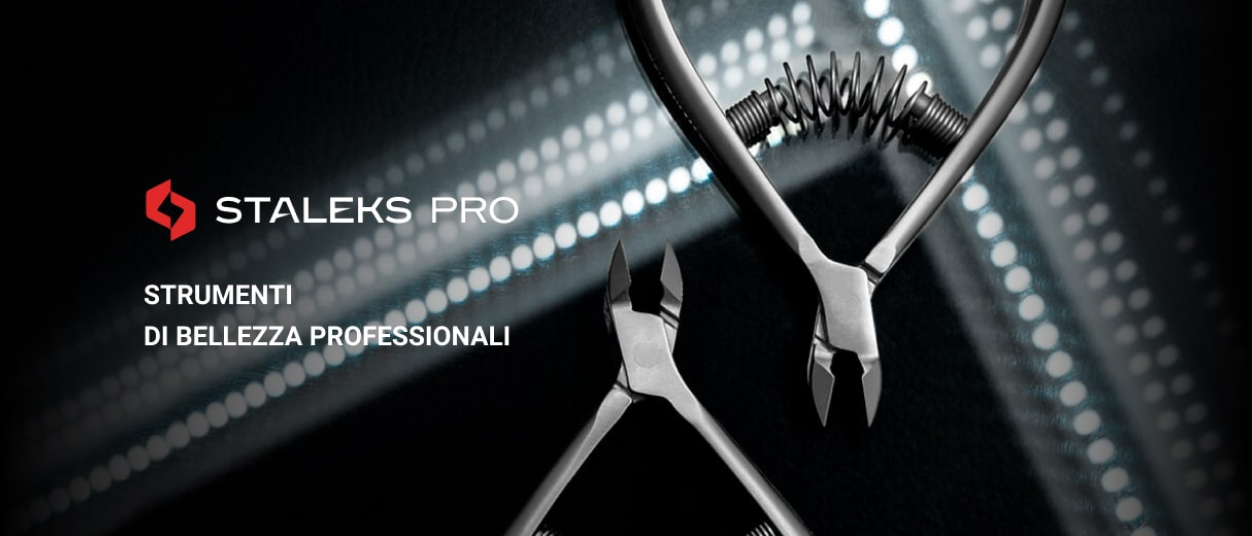
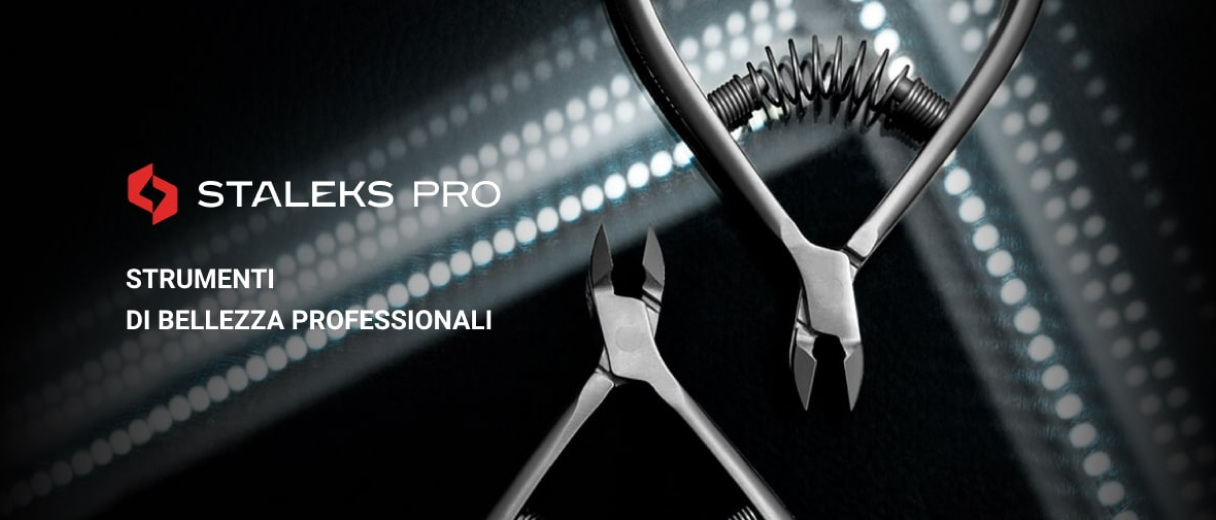
intro slider

diff --git a/index.html b/index.html
@@ -94,9 +94,15 @@
     <main class="container">
         <article class="article intro wow animate__animated animate__fadeInUp" data-wow-delay="1s" >
             <div id="slick_1" class="slider slider_intro">
-                <img class="intro__pic" src="./img/intro_slider.jpg" alt="">
-                <img class="intro__pic" src="./img/intro_slider.jpg" alt="">
-                <img class="intro__pic" src="./img/intro_slider.jpg" alt="">
+                <a href="">
+                    <img class="intro__pic" src="./img/intro_slider.jpg" alt="">
+                </a>
+                <a href="">
+                    <img class="intro__pic" src="./img/intro_slider_2.jpg" alt="">
+                </a>
+                <a href="">
+                    <img class="intro__pic" src="./img/intro_slider_3.jpg" alt="">
+                </a>
             </div>
         </article>
         <article class="article modalita">

diff --git a/js/custom.js b/js/custom.js
@@ -109,7 +109,7 @@ $(document).ready(function () {
         $('#modal-info').addClass('vis');
     }
     setTimeout(function() { 
-        modal();
+        //modal();
     }, 100);
     $('.header-nav__link_login').click(function() {
         $('body').addClass('oh');
